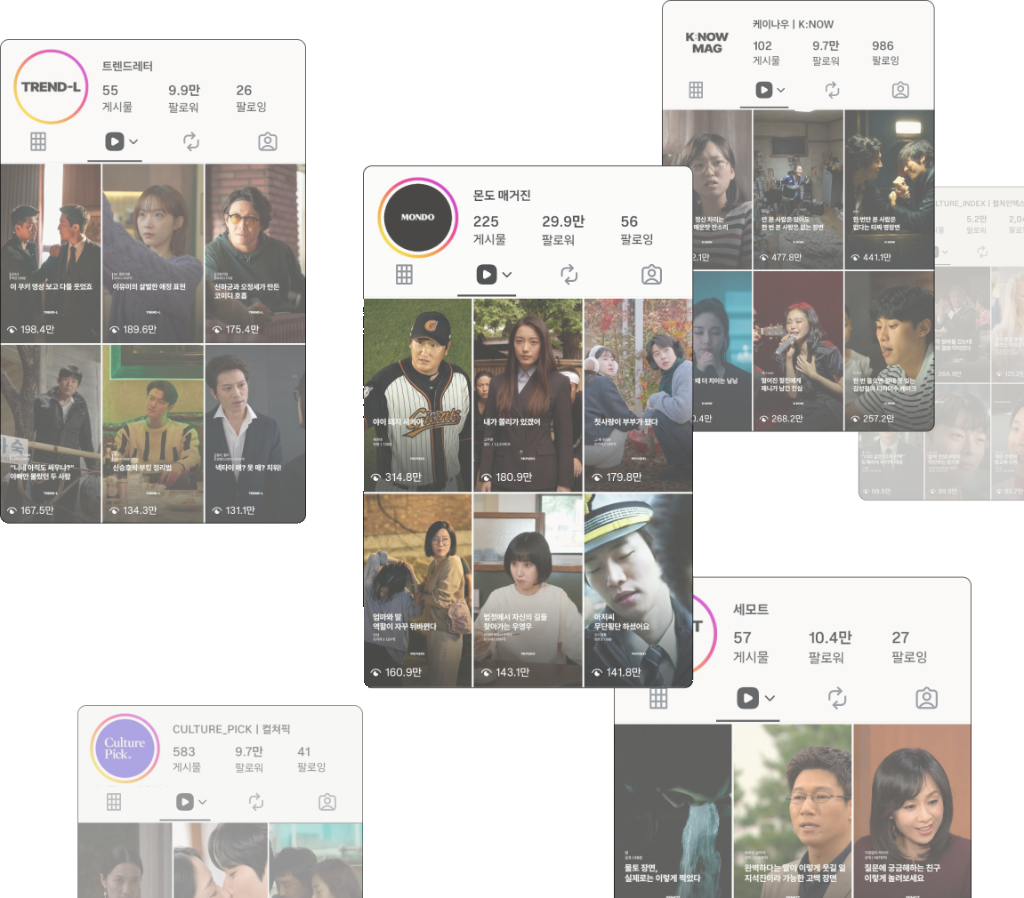
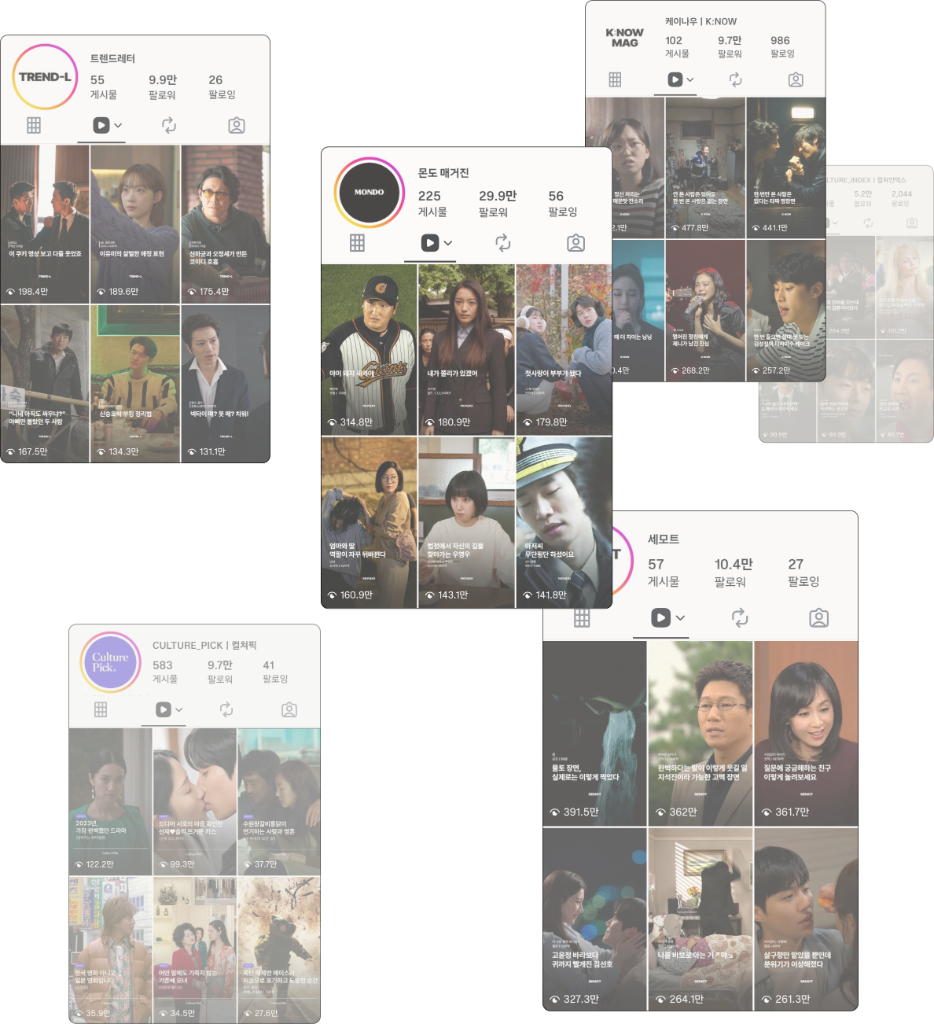
update

diff --git a/home.js b/home.js
@@ -323,158 +323,13 @@
   const worksSection = document.getElementById('works');
   const worksStatsBlock = document.querySelector('[data-home-works-stats]');
   const worksCollage = document.querySelector('[data-home-works-collage]');
-  const worksFallStage = worksCollage?.querySelector('[data-works-fall]');
   const worksStatValues = document.querySelectorAll('[data-home-works-stats] [data-count-to]');
-  const worksCards = worksFallStage
-    ? [...worksFallStage.querySelectorAll('.home-works__card')]
-    : [];
-  let worksFallTimer = 0;
-  let worksFallActive = false;
-  let worksFallLayoutIdx = 0;
-  const worksFallAnims = [];
-
-  const rand = (min, max) => min + Math.random() * (max - min);
-  const clamp = (n, min, max) => Math.max(min, Math.min(max, n));
-
-  /* 시안처럼 겹치고 기울어진 콜라주 자리 (정규화 좌표) */
-  const worksCollageLayouts = [
-    [
-      { x: 0.02, y: 0.0, w: 0.38, rot: -7, z: 2 },
-      { x: 0.34, y: 0.06, w: 0.44, rot: 2, z: 5 },
-      { x: 0.58, y: -0.04, w: 0.36, rot: 6, z: 3 },
-      { x: 0.0, y: 0.4, w: 0.4, rot: -3, z: 4 },
-      { x: 0.42, y: 0.36, w: 0.38, rot: 4, z: 3 },
-      { x: 0.22, y: 0.22, w: 0.34, rot: -5, z: 1 },
-    ],
-    [
-      { x: 0.1, y: -0.06, w: 0.36, rot: 5, z: 2 },
-      { x: 0.4, y: 0.02, w: 0.42, rot: -2, z: 5 },
-      { x: 0.62, y: 0.12, w: 0.34, rot: -6, z: 3 },
-      { x: -0.02, y: 0.3, w: 0.38, rot: 3, z: 4 },
-      { x: 0.28, y: 0.38, w: 0.4, rot: -4, z: 3 },
-      { x: 0.52, y: 0.42, w: 0.36, rot: 7, z: 2 },
-    ],
-    [
-      { x: 0.0, y: 0.08, w: 0.4, rot: -5, z: 3 },
-      { x: 0.3, y: -0.02, w: 0.4, rot: 3, z: 4 },
-      { x: 0.55, y: 0.04, w: 0.42, rot: -2, z: 5 },
-      { x: 0.08, y: 0.36, w: 0.36, rot: 6, z: 2 },
-      { x: 0.38, y: 0.34, w: 0.38, rot: -3, z: 3 },
-      { x: 0.6, y: 0.4, w: 0.34, rot: 4, z: 1 },
-    ],
-  ];
-
-  const clearWorksFall = () => {
-    if (worksFallTimer) {
-      window.clearTimeout(worksFallTimer);
-      worksFallTimer = 0;
-    }
-    worksFallAnims.splice(0).forEach((anim) => {
-      try {
-        anim.cancel();
-      } catch (_) {}
-    });
-    worksCards.forEach((card) => {
-      card.getAnimations?.().forEach((a) => a.cancel());
-      card.style.opacity = '0';
-      card.style.transform = '';
-      card.style.filter = 'none';
-      card.style.left = '';
-      card.style.top = '';
-      card.style.zIndex = '';
-      card.style.width = '';
-    });
-  };
-
-  /* 위에서 시안형 콜라주 자리로 낙하 — 흐림 없이 또렷하게, 1회만 */
-  const runWorksFallCycle = () => {
-    if (!worksFallStage || !worksCards.length || reducedMotion || !worksFallActive) return;
-    clearWorksFall();
-
-    const stageH = worksFallStage.clientHeight || 560;
-    const stageW = worksFallStage.clientWidth || 600;
-    const layout = worksCollageLayouts[worksFallLayoutIdx % worksCollageLayouts.length];
-    worksFallLayoutIdx += 1;
-
-    const order = worksCards
-      .map((card, index) => ({ card, index }))
-      .sort(() => Math.random() - 0.5);
-
-    let cycleEnd = 0;
-
-    order.forEach(({ card }, i) => {
-      const slot = layout[i % layout.length];
-      const jitterX = rand(-0.03, 0.03) * stageW;
-      const jitterY = rand(-0.02, 0.03) * stageH;
-      const left = clamp(slot.x * stageW + jitterX, -stageW * 0.04, stageW * 0.68);
-      const restY = clamp(slot.y * stageH + jitterY, -stageH * 0.06, stageH * 0.5);
-      const rot = slot.rot + rand(-2, 2);
-      const widthPct = slot.w * 100 + rand(-1.5, 1.5);
-      const delay = rand(40, 280) + i * rand(90, 220);
-      const duration = rand(1100, 1800);
-      const startY = restY - stageH * rand(0.55, 0.85);
-
-      card.style.left = `${left}px`;
-      card.style.top = '0';
-      card.style.width = `${widthPct.toFixed(1)}%`;
-      card.style.zIndex = String(slot.z + Math.floor(rand(0, 2)));
-      card.style.filter = 'none';
-      card.style.opacity = '0';
-
-      const anim = card.animate(
-        [
-          {
-            transform: `translate3d(0, ${startY}px, 0) rotate(${rot * 0.35}deg)`,
-            opacity: 0,
-          },
-          {
-            offset: 0.12,
-            transform: `translate3d(0, ${startY + (restY - startY) * 0.15}px, 0) rotate(${rot * 0.55}deg)`,
-            opacity: 1,
-          },
-          {
-            transform: `translate3d(0, ${restY}px, 0) rotate(${rot}deg)`,
-            opacity: 1,
-          },
-        ],
-        {
-          duration,
-          delay,
-          easing: 'cubic-bezier(0.22, 0.7, 0.25, 1)',
-          fill: 'forwards',
-        }
-      );
-      worksFallAnims.push(anim);
-      cycleEnd = Math.max(cycleEnd, delay + duration);
-    });
-
-    worksFallTimer = window.setTimeout(() => {
-      worksFallActive = false;
-    }, cycleEnd + 80);
-  };
-
-  const startWorksFall = () => {
-    if (reducedMotion || worksFallActive) return;
-    worksFallActive = true;
-    runWorksFallCycle();
-  };
-
-  const stopWorksFall = () => {
-    worksFallActive = false;
-    clearWorksFall();
-  };
 
   if (worksCollage && worksSection) {
     observeSection(worksSection, {
       threshold: 0.18,
-      onEnter: () => {
-        worksCollage.classList.add('is-collage-in-view');
-        startWorksFall();
-      },
-      onLeave: () => {
-        worksCollage.classList.remove('is-collage-in-view');
-        stopWorksFall();
-      },
+      onEnter: () => worksCollage.classList.add('is-collage-in-view'),
+      onLeave: () => worksCollage.classList.remove('is-collage-in-view'),
     });
   }
 

diff --git a/home.css b/home.css
@@ -412,9 +412,9 @@ body.page-home .gnb-contact:hover {
 
 /* ----- Works ----- */
 .home-works {
-  padding: clamp(48px, 5.5vw, 80px) 0;
+  padding: clamp(8px, 1vw, 18px) 0 clamp(4px, 0.6vw, 12px);
   background: var(--home-beige);
-  overflow: visible;
+  overflow: hidden;
 }
 
 /* 좌: 공통 여백·들여쓰기 / 우: Figma처럼 오른쪽 마진 밖으로 콜라주 */
@@ -438,68 +438,44 @@ body.page-home .gnb-contact:hover {
 .home-works__collage-wrap {
   display: flex;
   justify-content: flex-end;
-  align-items: center;
+  align-items: flex-start;
   min-width: 533px;
   overflow: visible;
   width: 100%;
   padding-right: 0;
+  /* 아래쪽 폰이 섹션 경계에 일부 잘리도록 */
+  margin-bottom: clamp(-96px, -9vw, -56px);
 }
 
-/* 진입 — 낙하 스테이지 */
-.home-works__collage-enter .home-works__conveyor {
+/* 콜라주 — 위에서 아래로 페이드인 */
+.home-works__collage-enter .home-works__collage-img {
   opacity: 0;
-  transition: opacity 0.8s cubic-bezier(0.2, 0.7, 0.15, 1);
+  transform: translateY(-56px);
+  transition: opacity 1.05s cubic-bezier(0.2, 0.7, 0.15, 1),
+    transform 1.05s cubic-bezier(0.2, 0.7, 0.15, 1);
+  will-change: opacity, transform;
 }
 
-.home-works__collage-enter.is-collage-in-view .home-works__conveyor {
+.home-works__collage-enter.is-collage-in-view .home-works__collage-img {
   opacity: 1;
-}
-
-/* 낙하 스테이지 — 시안형 콜라주로 떨어져 정착 (흐림 없음) */
-.home-works__conveyor {
-  position: relative;
-  width: clamp(480px, 44vw, 720px);
-  height: clamp(420px, 52vw, 640px);
-  margin-right: clamp(-48px, -4vw, -16px);
-  overflow: visible;
-}
-
-.home-works__card {
-  position: absolute;
-  top: 0;
-  left: 0;
-  width: 38%;
-  height: auto;
-  border-radius: 12px;
-  opacity: 0;
-  pointer-events: none;
-  filter: none;
-  box-shadow: 0 18px 40px rgba(0, 0, 0, 0.18);
-  will-change: transform, opacity;
-  transform-origin: center center;
+  transform: translateY(0);
 }
 
 @media (prefers-reduced-motion: reduce) {
-  .home-works__collage-enter .home-works__conveyor {
+  .home-works__collage-enter .home-works__collage-img {
     opacity: 1;
+    transform: none;
     transition: none;
   }
+}
 
-  .home-works__card {
-    position: relative;
-    width: 30%;
-    opacity: 1;
-    inset: auto;
-    box-shadow: 0 10px 24px rgba(0, 0, 0, 0.12);
-  }
-
-  .home-works__conveyor {
-    display: flex;
-    flex-wrap: wrap;
-    gap: 10px;
-    align-content: center;
-    justify-content: center;
-  }
+.home-works__collage-img {
+  display: block;
+  flex: 0 0 auto;
+  width: clamp(480px, 44vw, 720px);
+  height: auto;
+  max-width: none;
+  margin-right: clamp(-80px, -6vw, -32px);
 }
 
 .home-works__copy .home-desc {
@@ -999,14 +975,14 @@ a.home-service__rail-item:hover {
   .home-works__collage-wrap {
     justify-content: center;
     margin-top: 24px;
+    margin-bottom: clamp(-48px, -12vw, -24px);
     min-width: 0;
   }
 
-  .home-works__conveyor {
-    width: min(100%, 560px);
-    height: clamp(360px, 70vw, 520px);
-    margin-right: 0;
-    margin-inline: auto;
+  .home-works__collage-img {
+    width: min(100%, 1024px);
+    margin-left: auto;
+    margin-right: auto;
   }
 
   .home-services__frame {
@@ -1106,12 +1082,16 @@ a.home-service__rail-item:hover {
   }
 
   .home-about,
-  .home-works,
   .home-value__inner,
   .home-service,
   .home-cta__shell {
     padding-top: clamp(56px, 14vw, 72px);
     padding-bottom: clamp(56px, 14vw, 72px);
+  }
+
+  .home-works {
+    padding-top: clamp(16px, 4vw, 24px);
+    padding-bottom: clamp(8px, 2vw, 16px);
   }
 
   .home-value__inner {

diff --git a/index.html b/index.html
@@ -17,10 +17,10 @@
     href="https://cdn.jsdelivr.net/gh/orioncactus/pretendard@v1.3.9/dist/web/variable/pretendardvariable-dynamic-subset.min.css" />
 
   <link rel="stylesheet" href="/style.css" />
-  <link rel="stylesheet" href="/home.css?v=works-collage-fall" />
+  <link rel="stylesheet" href="/home.css?v=works-crop-pad3" />
   <script src="/nav.js" defer></script>
   <script src="/reveal.js" defer></script>
-  <script src="/home.js?v=works-collage-fall" defer></script>
+  <script src="/home.js?v=works-crop-pad" defer></script>
 
 </head>
 
@@ -94,7 +94,7 @@
         </a>
       </div>
       <div class="home-hero__visual home-hero__visual--enter">
-        <img src="/public/main/home-hero-building.jpg" alt="" width="1200" height="1600" />
+        <img src="/public/main/home-hero-building.jpg?v=hero-logo-wall" alt="" width="857" height="1024" />
       </div>
     </section>
 
@@ -165,14 +165,15 @@
           </a>
         </div>
         <div class="home-works__collage-wrap home-works__collage-enter" data-home-works-collage>
-          <div class="home-works__conveyor" data-works-fall aria-hidden="true">
-            <img class="home-works__card" src="/public/main/works-reel-01.png" alt="" loading="lazy" decoding="async" />
-            <img class="home-works__card" src="/public/main/works-reel-02.png" alt="" loading="lazy" decoding="async" />
-            <img class="home-works__card" src="/public/main/works-reel-03.png" alt="" loading="lazy" decoding="async" />
-            <img class="home-works__card" src="/public/main/works-reel-04.png" alt="" loading="lazy" decoding="async" />
-            <img class="home-works__card" src="/public/main/works-reel-05.png" alt="" loading="lazy" decoding="async" />
-            <img class="home-works__card" src="/public/main/works-reel-06.png" alt="" loading="lazy" decoding="async" />
-          </div>
+          <img
+            class="home-works__collage-img"
+            src="/public/main/works-collage-composite.png"
+            alt=""
+            width="1024"
+            height="898"
+            loading="lazy"
+            decoding="async"
+          />
         </div>
       </div>
     </section>
